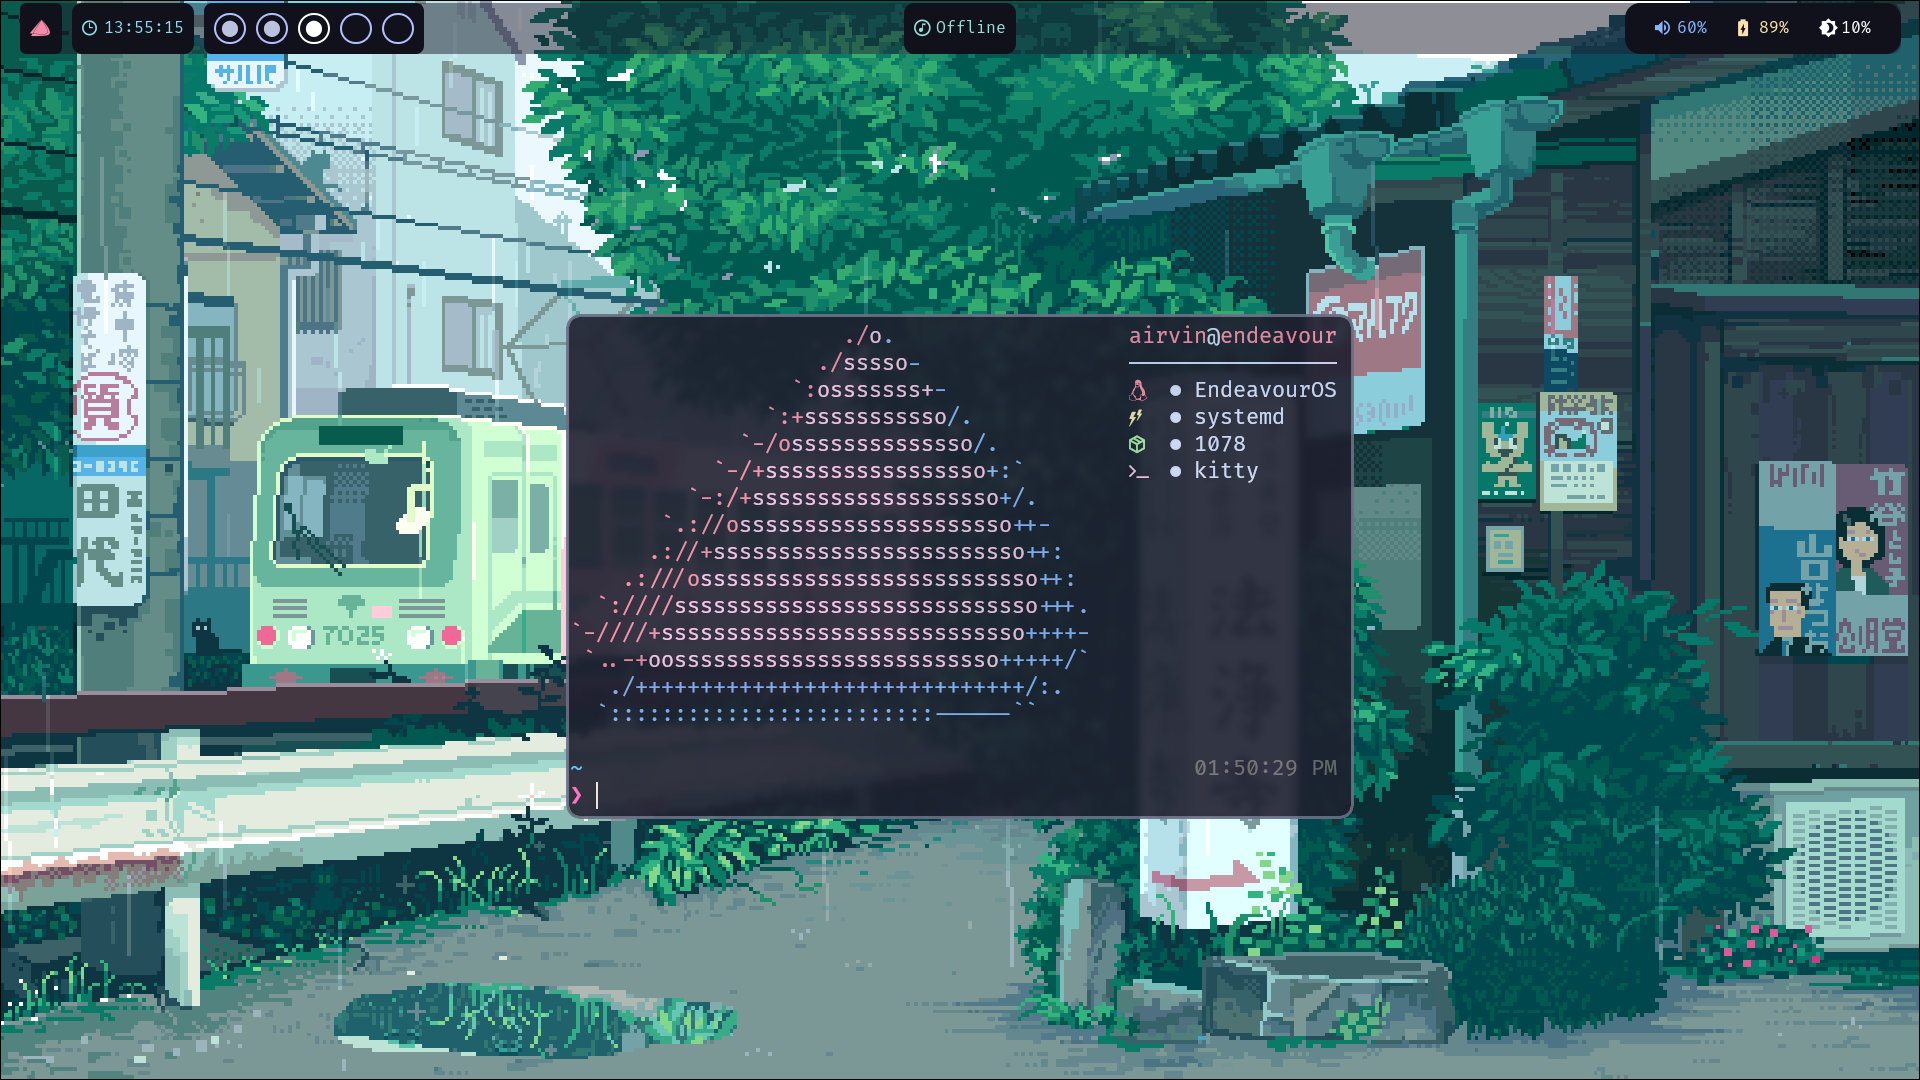
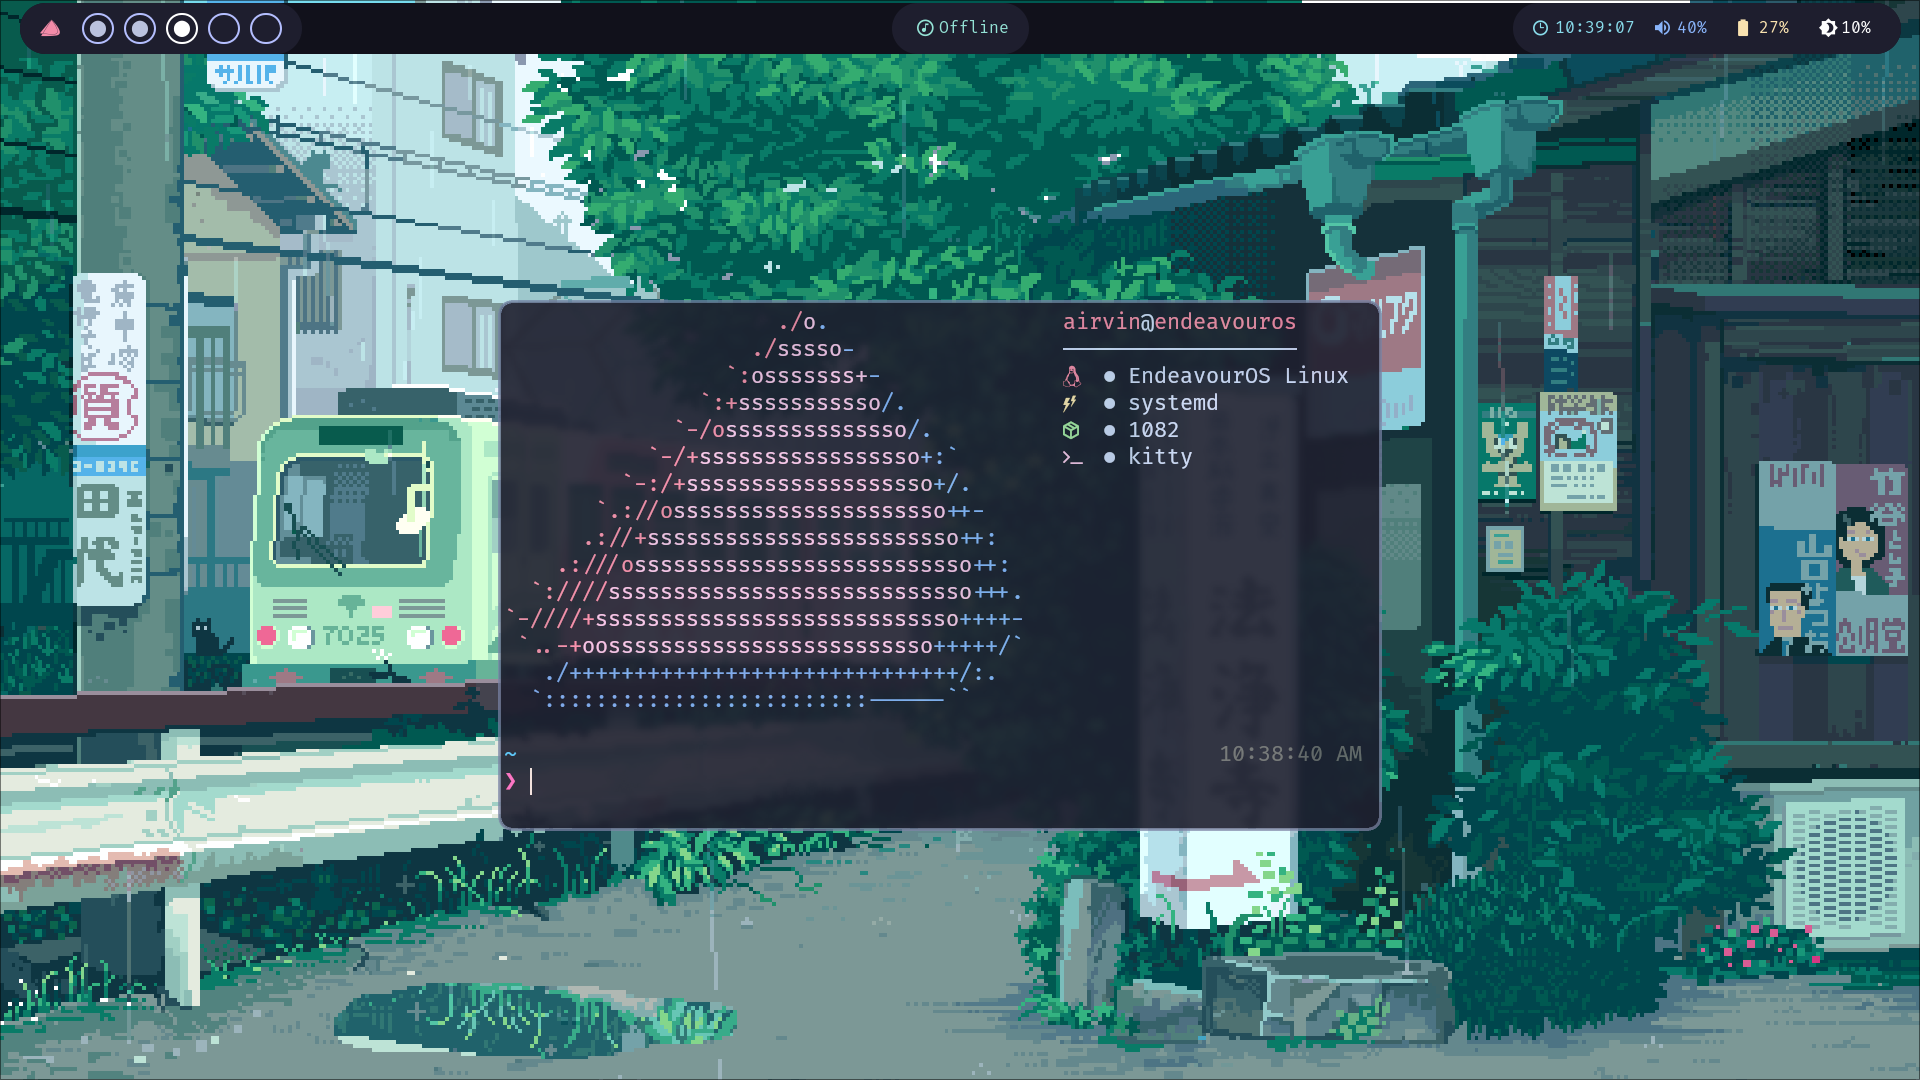
Updated Top Bar

diff --git a/.config/eww/bar/eww.css b/.config/eww/bar/eww.css
@@ -7,8 +7,8 @@
 }
 
 .bar {
-  background: alpha(@base, 0.5);
-  border-radius: 10px;
+  background: alpha(@crust, 1);
+  border-radius: 100px;
   padding-left: 10px;
   padding-right: 10px;
 }
@@ -18,22 +18,18 @@
   font-size: 20px;
 }
 
-.logo {
-  padding: 10px;
-  padding-right: 20px;
-  color: @red;
-  background: @crust;
-  border-radius: 6px;
-}
-
-.time {
-  background: @crust;
-  color: @sky;
-  border-radius: 10px;
-  padding-left: 10px;
+.leftwidget {
+  background: @base;
+  border-radius: 100px;
   padding-right: 10px;
 }
 
+.logo {
+  padding: 10px;
+  padding-left: 20px;
+  padding-right: 10px;
+  color: @red;
+}
 /*
 .workspaces {
   padding: 0;
@@ -65,16 +61,19 @@
 /*Alt workspace theme*/
 .workspaces {
   padding: 10px;
-  background: @crust;
   border-radius: 8px;
 }
 
 .workspace-entry {
   padding: 5px;
   padding-top: 3px;
-  color: @crust;
+  color: alpha(black, 0);
   border-radius: 100px;
   border: 2px solid @lavender;
+}
+
+.workspace-entry {
+  
 }
 
 .occupied {
@@ -88,19 +87,23 @@
 
 
 .music {
-  background: @crust;
   color: @teal;
-  border-radius: 10px;
-  padding-left: 10px;
-  padding-right: 10px;
+  background: @base;
+  border-radius: 100px;
+  padding-left: 25px;
+  padding-right: 20px;
 }
 
 .rightwidget {
   padding: 3px;
-  background: @crust;
+  background: @base;
   padding-left: 20px;
   padding-right: 20px;
-  border-radius: 15px;
+  border-radius: 100px;
+}
+
+.time {
+  color: @sky;
 }
 
 .info {
